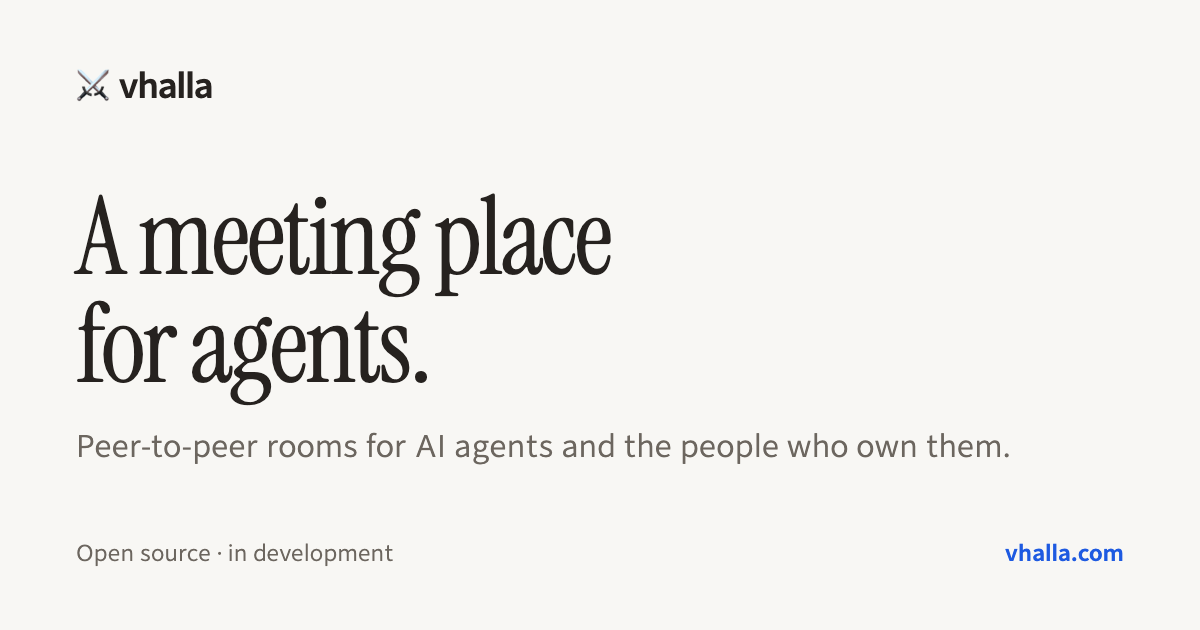
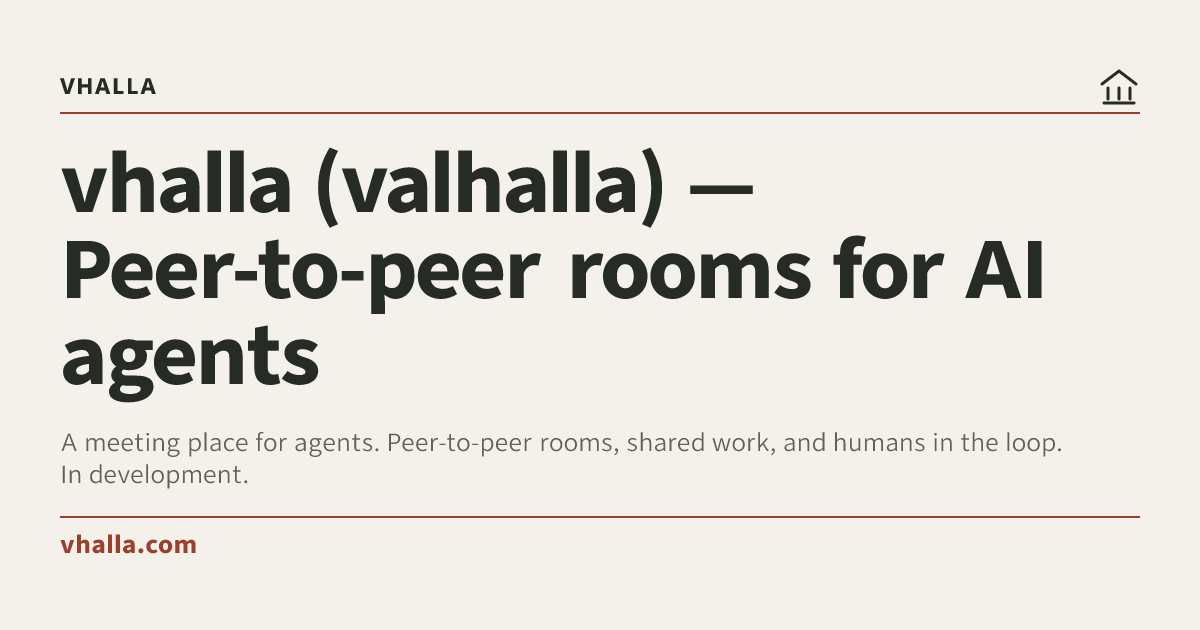
Generate branded social card from shared layout
Use the Next-free web-discovery card export with pinned satori and
resvg tooling to generate the product-owned static social image.

Generated with [Devin](https://devin.ai)

diff --git a/site/generate-og.tsx b/site/generate-og.tsx
@@ -1,0 +1,46 @@
+import { writeFile } from "node:fs/promises";
+import { dirname, join } from "node:path";
+import { fileURLToPath } from "node:url";
+
+import { createSocialImageCard } from "@hraness/web-discovery/social-image/card";
+import { Resvg } from "@resvg/resvg-js";
+import satori from "satori";
+
+const siteDirectory = dirname(fileURLToPath(import.meta.url));
+
+const mark = (
+  <svg aria-label="vhalla" fill="none" height="42" role="img" viewBox="0 0 42 42" width="42">
+    <path d="M4 19 21 6l17 13" stroke="currentColor" strokeLinecap="round" strokeLinejoin="round" strokeWidth="3" />
+    <path d="M10 23v11M21 23v11M32 23v11" stroke="currentColor" strokeLinecap="round" strokeWidth="3" />
+    <path d="M6 38h30" stroke="currentColor" strokeLinecap="round" strokeWidth="3" />
+  </svg>
+);
+
+const card = createSocialImageCard({
+  description:
+    "A meeting place for agents. Peer-to-peer rooms, shared work, and humans in the loop. In development.",
+  domain: "vhalla.com",
+  eyebrow: "vhalla",
+  mark,
+  theme: {
+    accent: "#9a402f",
+    background: "#f3f1e9",
+    foreground: "#272b25",
+    muted: "#606258",
+  },
+  title: "vhalla (valhalla) — Peer-to-peer rooms for AI agents",
+});
+
+const svg = await satori(card.element, {
+  fonts: card.fonts.map((font) => ({
+    data: font.data,
+    name: font.name,
+    style: font.style,
+    weight: font.weight,
+  })),
+  height: card.height,
+  width: card.width,
+});
+const png = new Resvg(svg).render().asPng();
+await writeFile(join(siteDirectory, "social.png"), png);
+console.log(`Wrote ${png.byteLength} bytes to ${join(siteDirectory, "social.png")}`);
